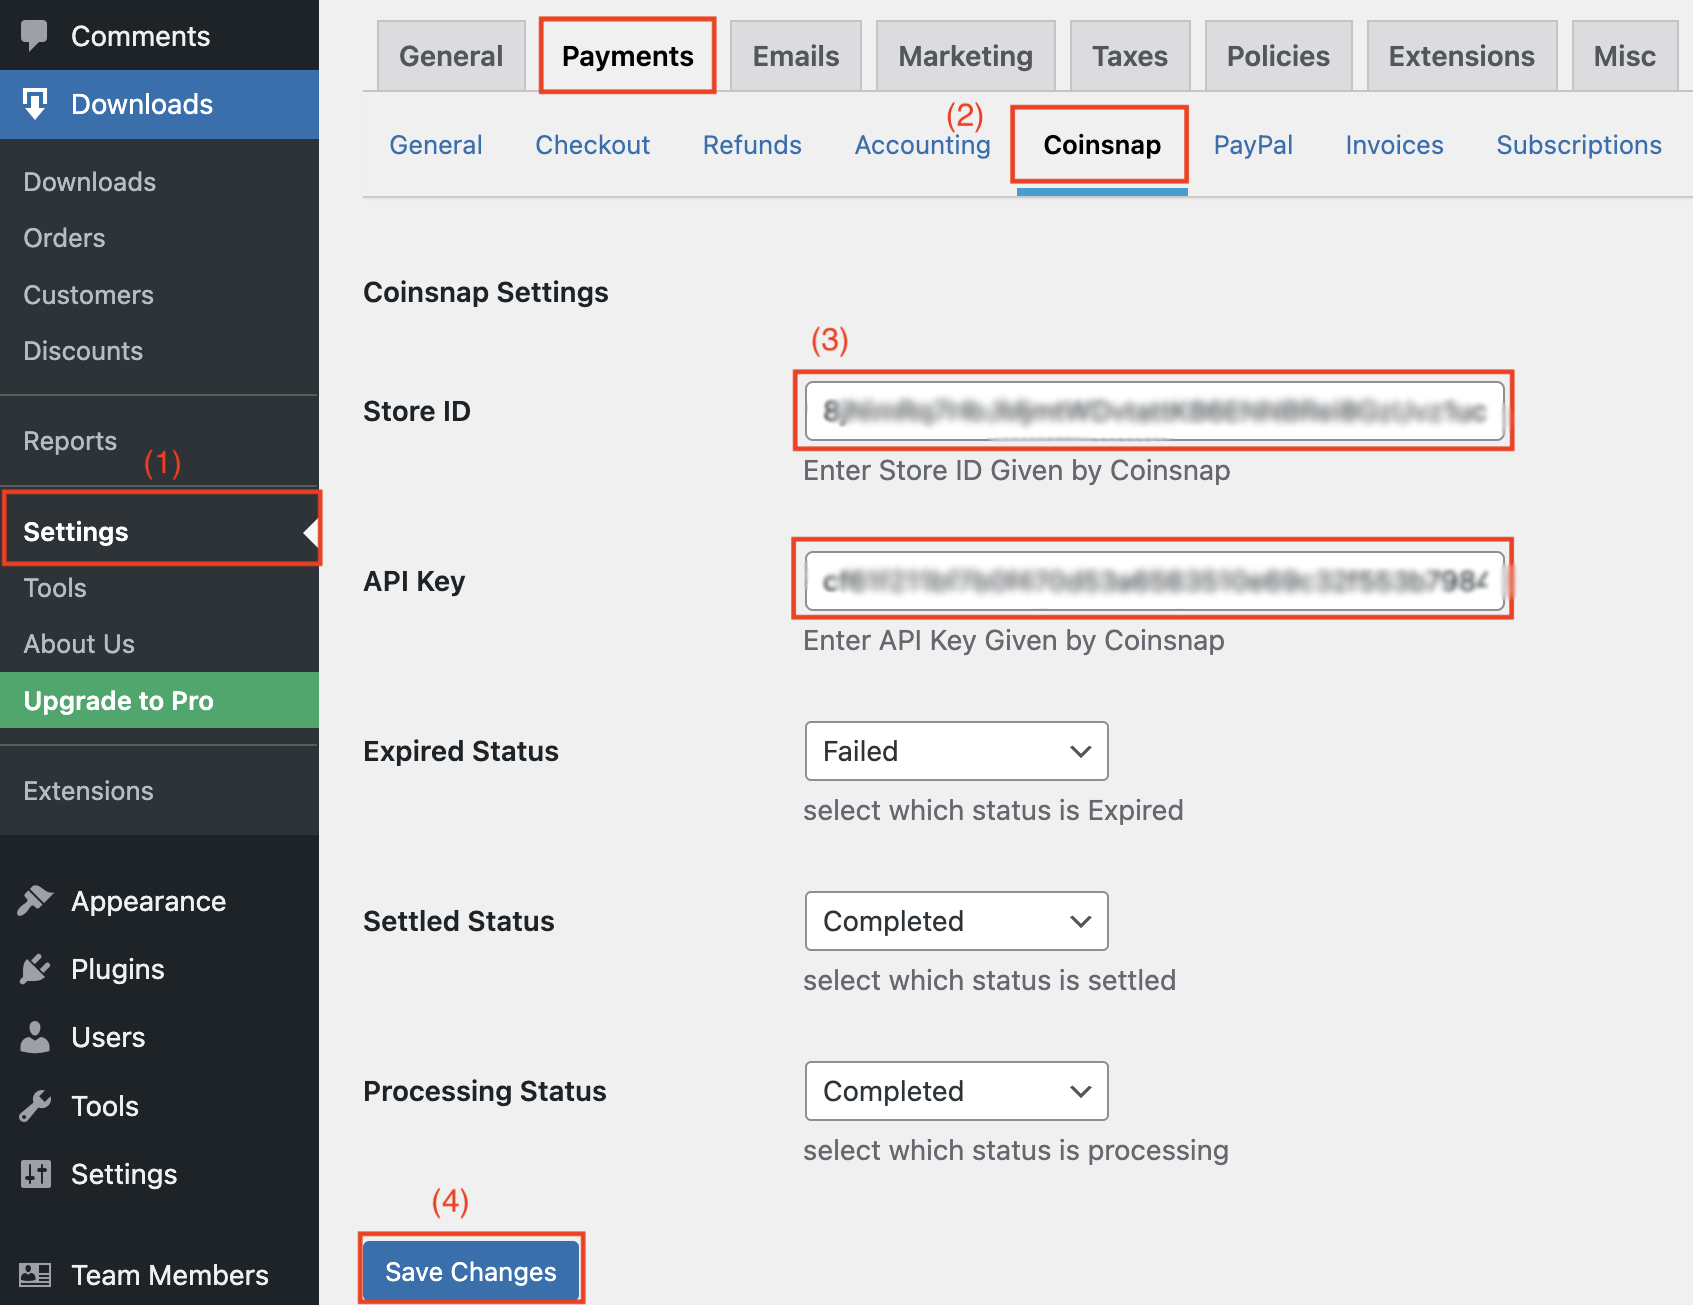
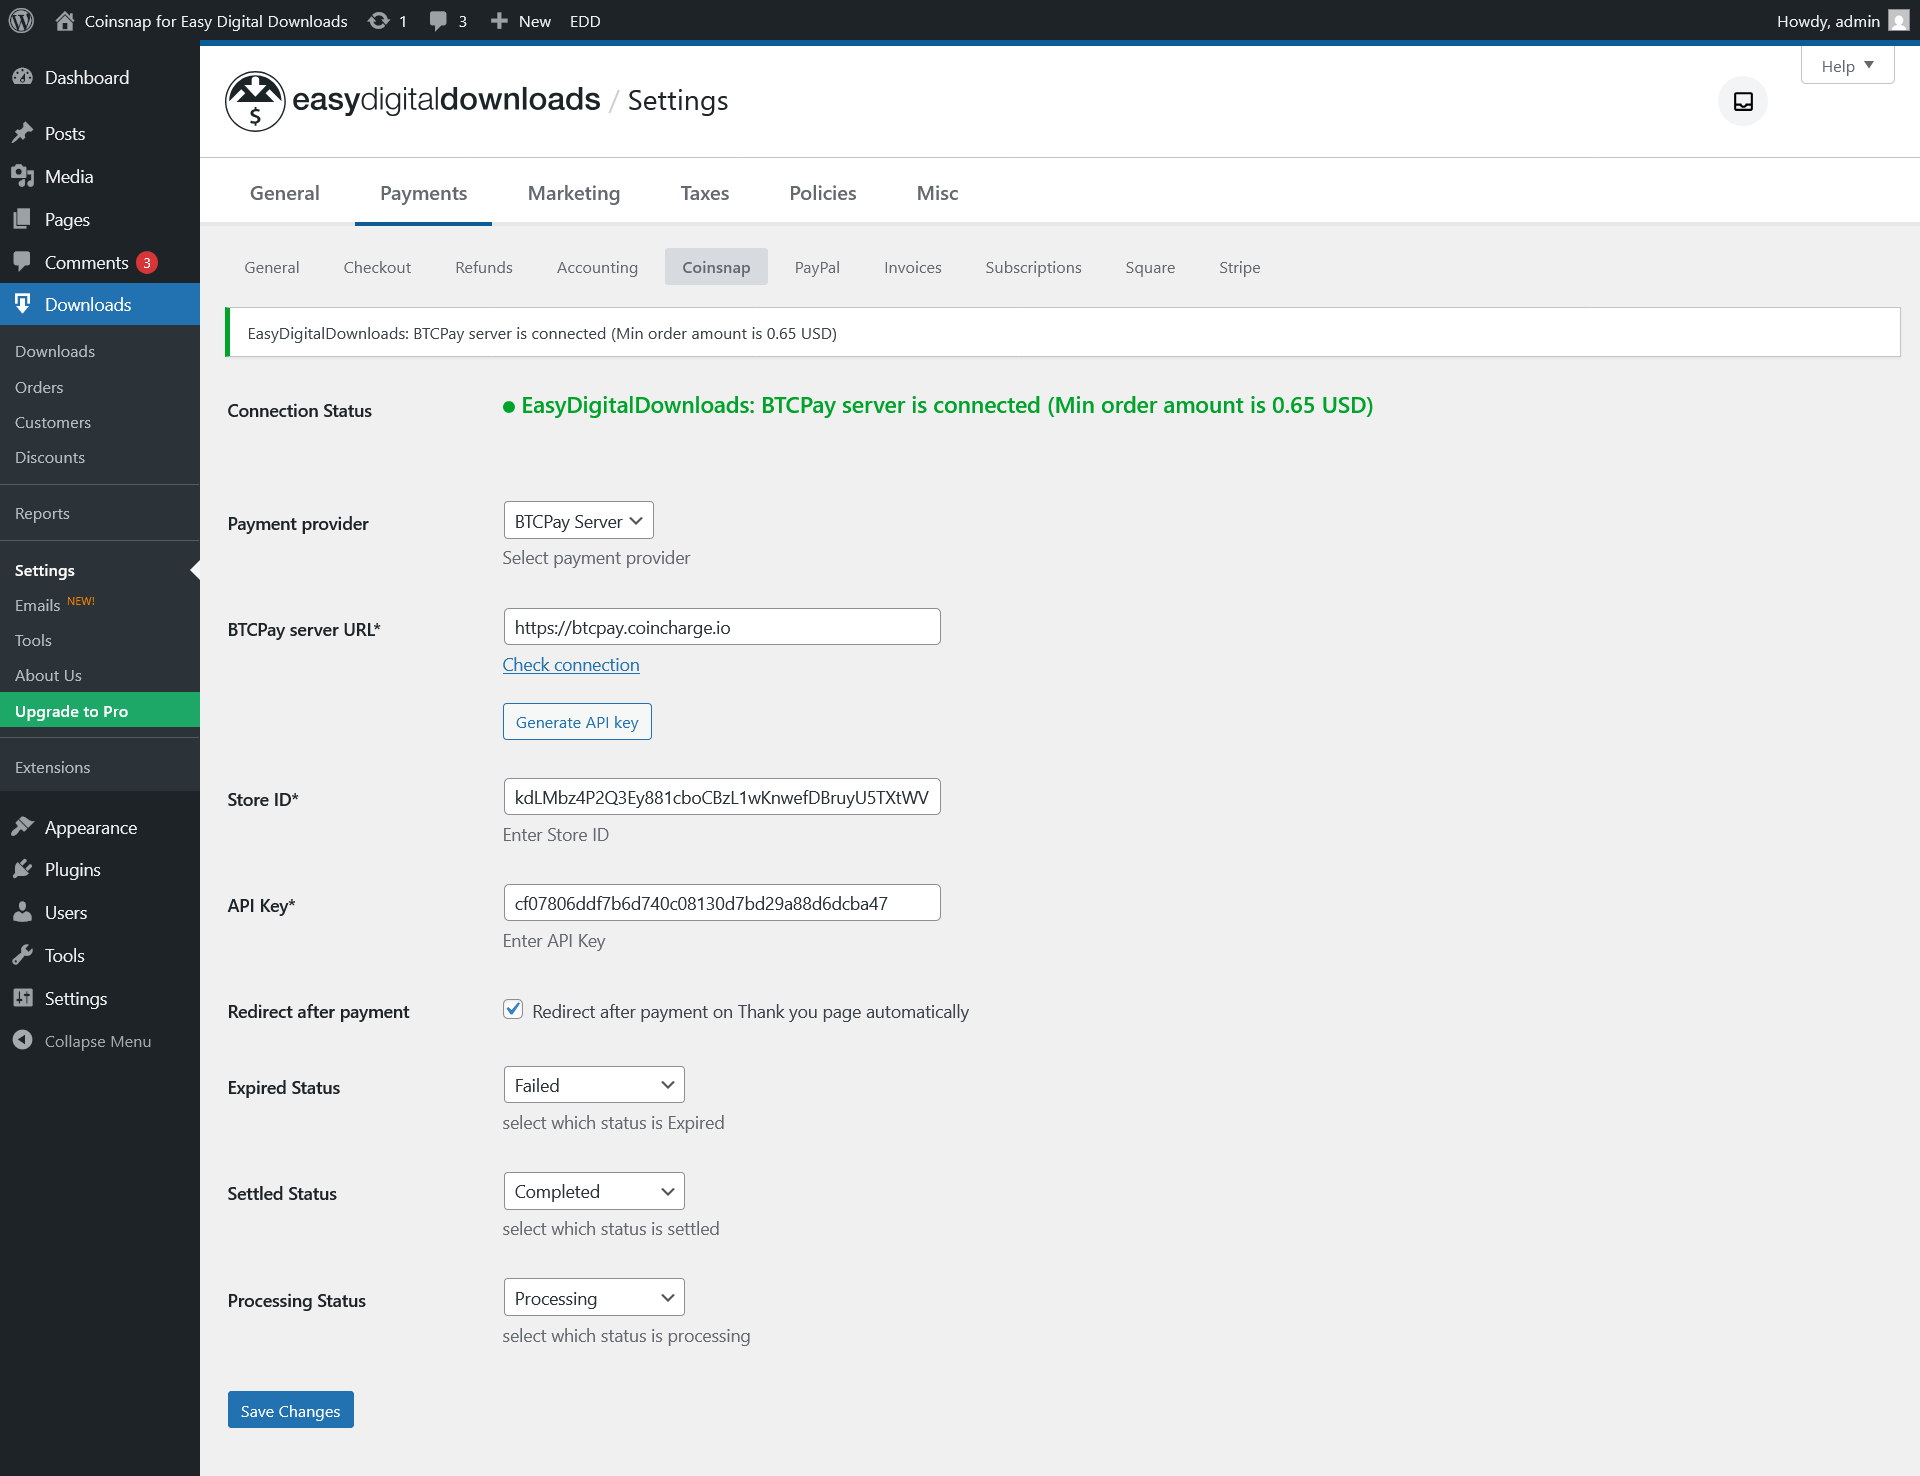
SNAP-2112 Additional Exception handler to prevent error messages printing

diff --git a/coinsnap-for-easy-digital-downloads.php b/coinsnap-for-easy-digital-downloads.php
@@ -3,7 +3,7 @@
  * Plugin Name:     Bitcoin payment for Easy Digital Downloads
  * Plugin URI:      https://www.coinsnap.io
  * Description:     With this Bitcoin payment plugin for Easy Digital Downloads you can now offer downloads for Bitcoin right in the Easy Digital Downloads plugin!
- * Version:         1.0.0
+ * Version:         1.0.1
  * Author:          Coinsnap
  * Author URI:      https://coinsnap.io/
  * Text Domain:     coinsnap-for-easy-digital-downloads
@@ -20,7 +20,7 @@
  */ 
 
 defined('ABSPATH') || exit;
-if(!defined('COINSNAPEDD_PLUGIN_VERSION')){ define( 'COINSNAPEDD_PLUGIN_VERSION', '1.0.0' ); }
+if(!defined('COINSNAPEDD_PLUGIN_VERSION')){ define( 'COINSNAPEDD_PLUGIN_VERSION', '1.0.1' ); }
 if(!defined('COINSNAPEDD_REFERRAL_CODE')){ define( 'COINSNAPEDD_REFERRAL_CODE', 'D18876' ); }
 if(!defined('COINSNAPEDD_PHP_VERSION')){ define( 'COINSNAPEDD_PHP_VERSION', '7.4' ); }
 if(!defined('COINSNAPEDD_WP_VERSION')){ define( 'COINSNAPEDD_WP_VERSION', '5.2' ); }
@@ -371,36 +371,46 @@ final class CoinsnapEDD {
                 
                 if(!empty($coinsnap_api_key) && !empty($coinsnap_store_id)){
                     $client = new \Coinsnap\Client\Store($coinsnap_url, $coinsnap_api_key);
-                    $store = $client->getStore($coinsnap_store_id);
-                    if ($store['code'] === 200) {
-                        echo '<div class="notice notice-success"><p>';
-                        esc_html_e('EasyDigitalDownloads: Established connection to Coinsnap Server', 'coinsnap-for-easy-digital-downloads');
-                        echo '</p></div>';
+                    try {
                         
-                        if ( ! $this->webhookExists( $coinsnap_url, $coinsnap_api_key, $coinsnap_store_id ) ) {
-                            if ( ! $this->registerWebhook( $coinsnap_url, $coinsnap_api_key, $coinsnap_store_id ) ) {
-                                echo '<div class="notice notice-error"><p>';
-                                esc_html_e('EasyDigitalDownloads: Unable to create webhook on Coinsnap Server', 'coinsnap-for-easy-digital-downloads');
-                                echo '</p></div>';
+                        $store = $client->getStore($coinsnap_store_id);
+                        if ($store['code'] === 200) {
+                            echo '<div class="notice notice-success edd-notice"><p>';
+                            esc_html_e('EasyDigitalDownloads: Established connection to Coinsnap Server', 'coinsnap-for-easy-digital-downloads');
+                            echo '</p></div>';
+
+                            if ( !$this->webhookExists( $coinsnap_url, $coinsnap_api_key, $coinsnap_store_id ) ) {
+                                if ( !$this->registerWebhook( $coinsnap_url, $coinsnap_api_key, $coinsnap_store_id ) ) {
+                                    echo '<div class="notice notice-error edd-notice"><p>';
+                                    esc_html_e('EasyDigitalDownloads: Unable to create webhook on Coinsnap Server', 'coinsnap-for-easy-digital-downloads');
+                                    echo '</p></div>';
+                                }
+                                else {
+                                    echo '<div class="notice notice-success edd-notice"><p>';
+                                    esc_html_e('EasyDigitalDownloads: Successfully registered a new webhook on Coinsnap Server', 'coinsnap-for-easy-digital-downloads');
+                                    echo '</p></div>';
+                                }
                             }
                             else {
-                                echo '<div class="notice notice-success"><p>';
-                                esc_html_e('EasyDigitalDownloads: Successfully registered a new webhook on Coinsnap Server', 'coinsnap-for-easy-digital-downloads');
+                                echo '<div class="notice notice-info edd-notice"><p>';
+                                esc_html_e('EasyDigitalDownloads: Webhook already exists, skipping webhook creation', 'coinsnap-for-easy-digital-downloads');
                                 echo '</p></div>';
                             }
                         }
                         else {
-                            echo '<div class="notice notice-info"><p>';
-                            esc_html_e('EasyDigitalDownloads: Webhook already exists, skipping webhook creation', 'coinsnap-for-easy-digital-downloads');
+                            echo '<div class="notice notice-error edd-notice"><p>';
+                            esc_html_e('EasyDigitalDownloads: Coinsnap connection error:', 'coinsnap-for-easy-digital-downloads');
+                            echo esc_html($store['result']['message']);
                             echo '</p></div>';
                         }
+                        
                     }
-                    else {
-                        echo '<div class="notice notice-error"><p>';
+                    catch (\Throwable $e){
+                        echo '<div class="notice notice-error edd-notice"><p>';
                         esc_html_e('EasyDigitalDownloads: Coinsnap connection error:', 'coinsnap-for-easy-digital-downloads');
-                        echo esc_html($store['result']['message']);
+                        echo esc_html($e->getMessage());
                         echo '</p></div>';
-                    }
+                    }                    
                 }
         }
     }
@@ -499,7 +509,7 @@ final class CoinsnapEDD {
                     'id' => 'btcpay_server_url',
                     'name'       => __( 'BTCPay server URL*', 'coinsnap-for-easy-digital-downloads' ),
                     'type'        => 'text',
-                    'desc'        => __( '<a href="#" class="btcpay-apikey-link">Check connection</a>', 'coinsnap-for-easy-digital-downloads' ).'<br/><br/><button class="button btcpay-apikey-link" id="btcpay_wizard_button" target="_blank">'. __('Generate API key','coinsnap-for-easy-digital-downloads').'</button>',
+                    'desc'        => __( '<a href="#" class="btcpay-apikey-link">Check connection</a>', 'coinsnap-for-easy-digital-downloads' ).'<br/><br/><button class="button btcpay-apikey-link" type="button" id="btcpay_wizard_button" target="_blank">'. __('Generate API key','coinsnap-for-easy-digital-downloads').'</button>',
                     'std'     => '',
                 'size' => 'regular',
                     'class' => 'btcpay'
